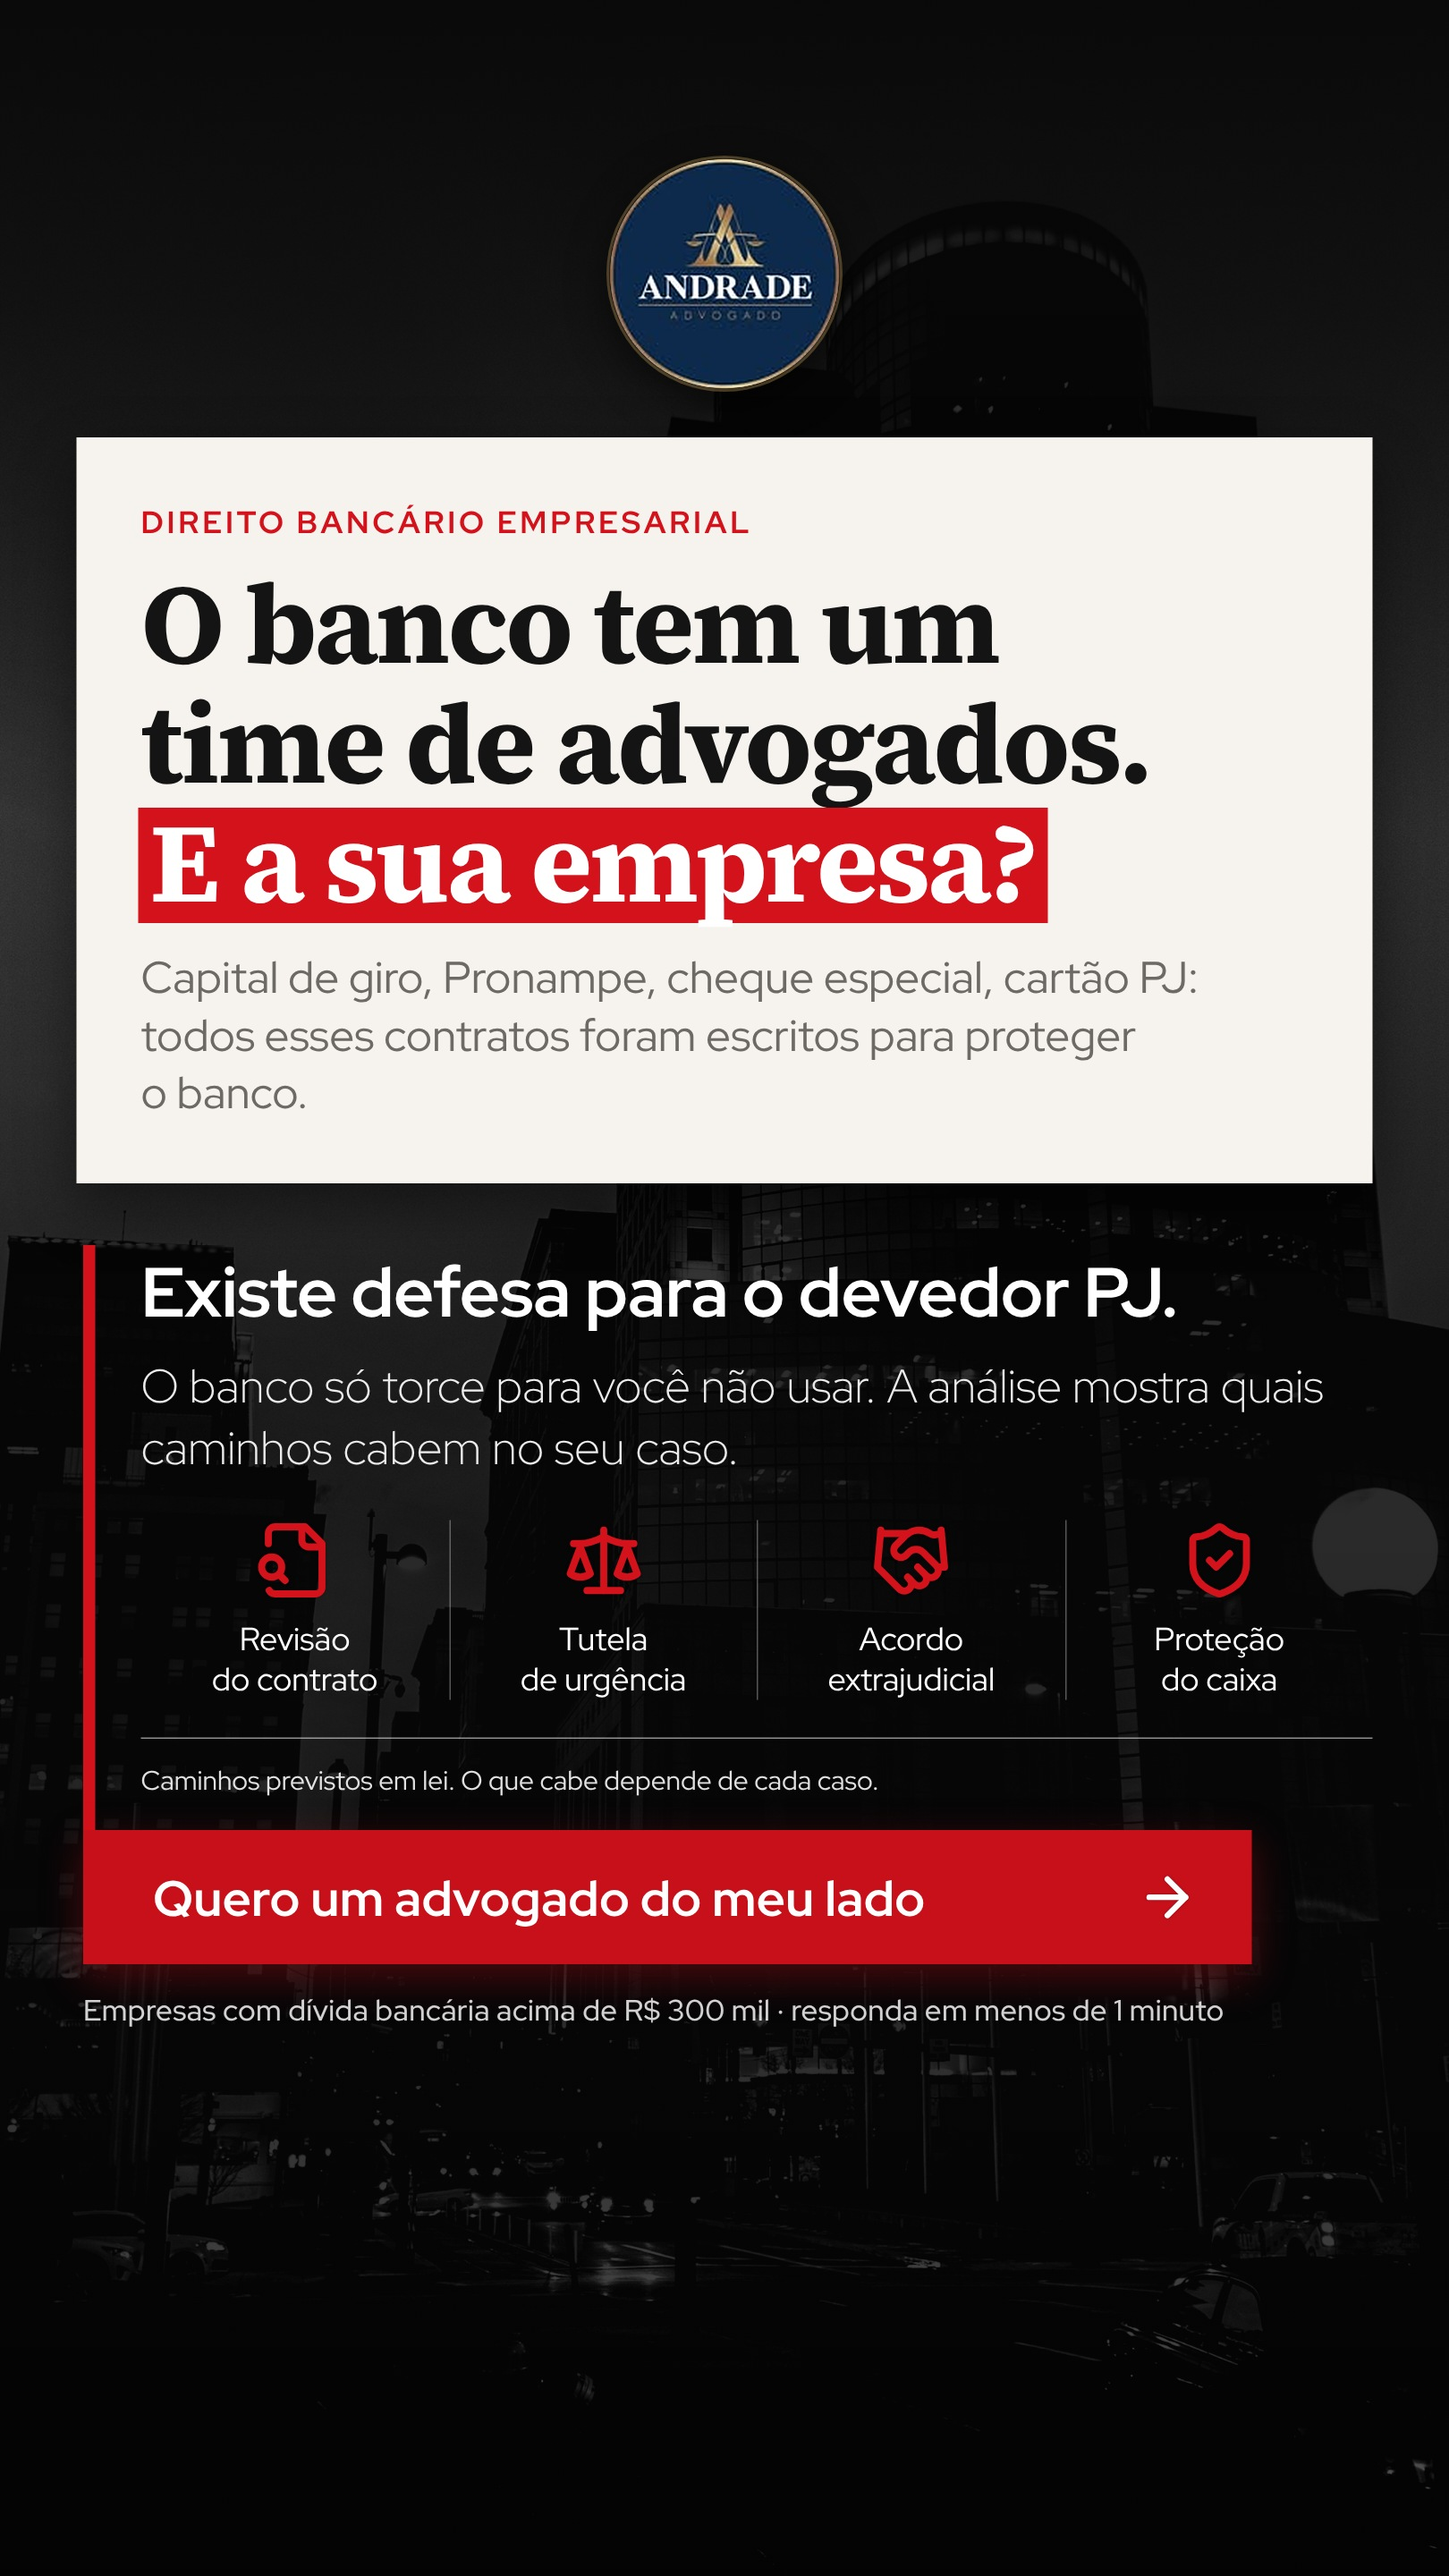
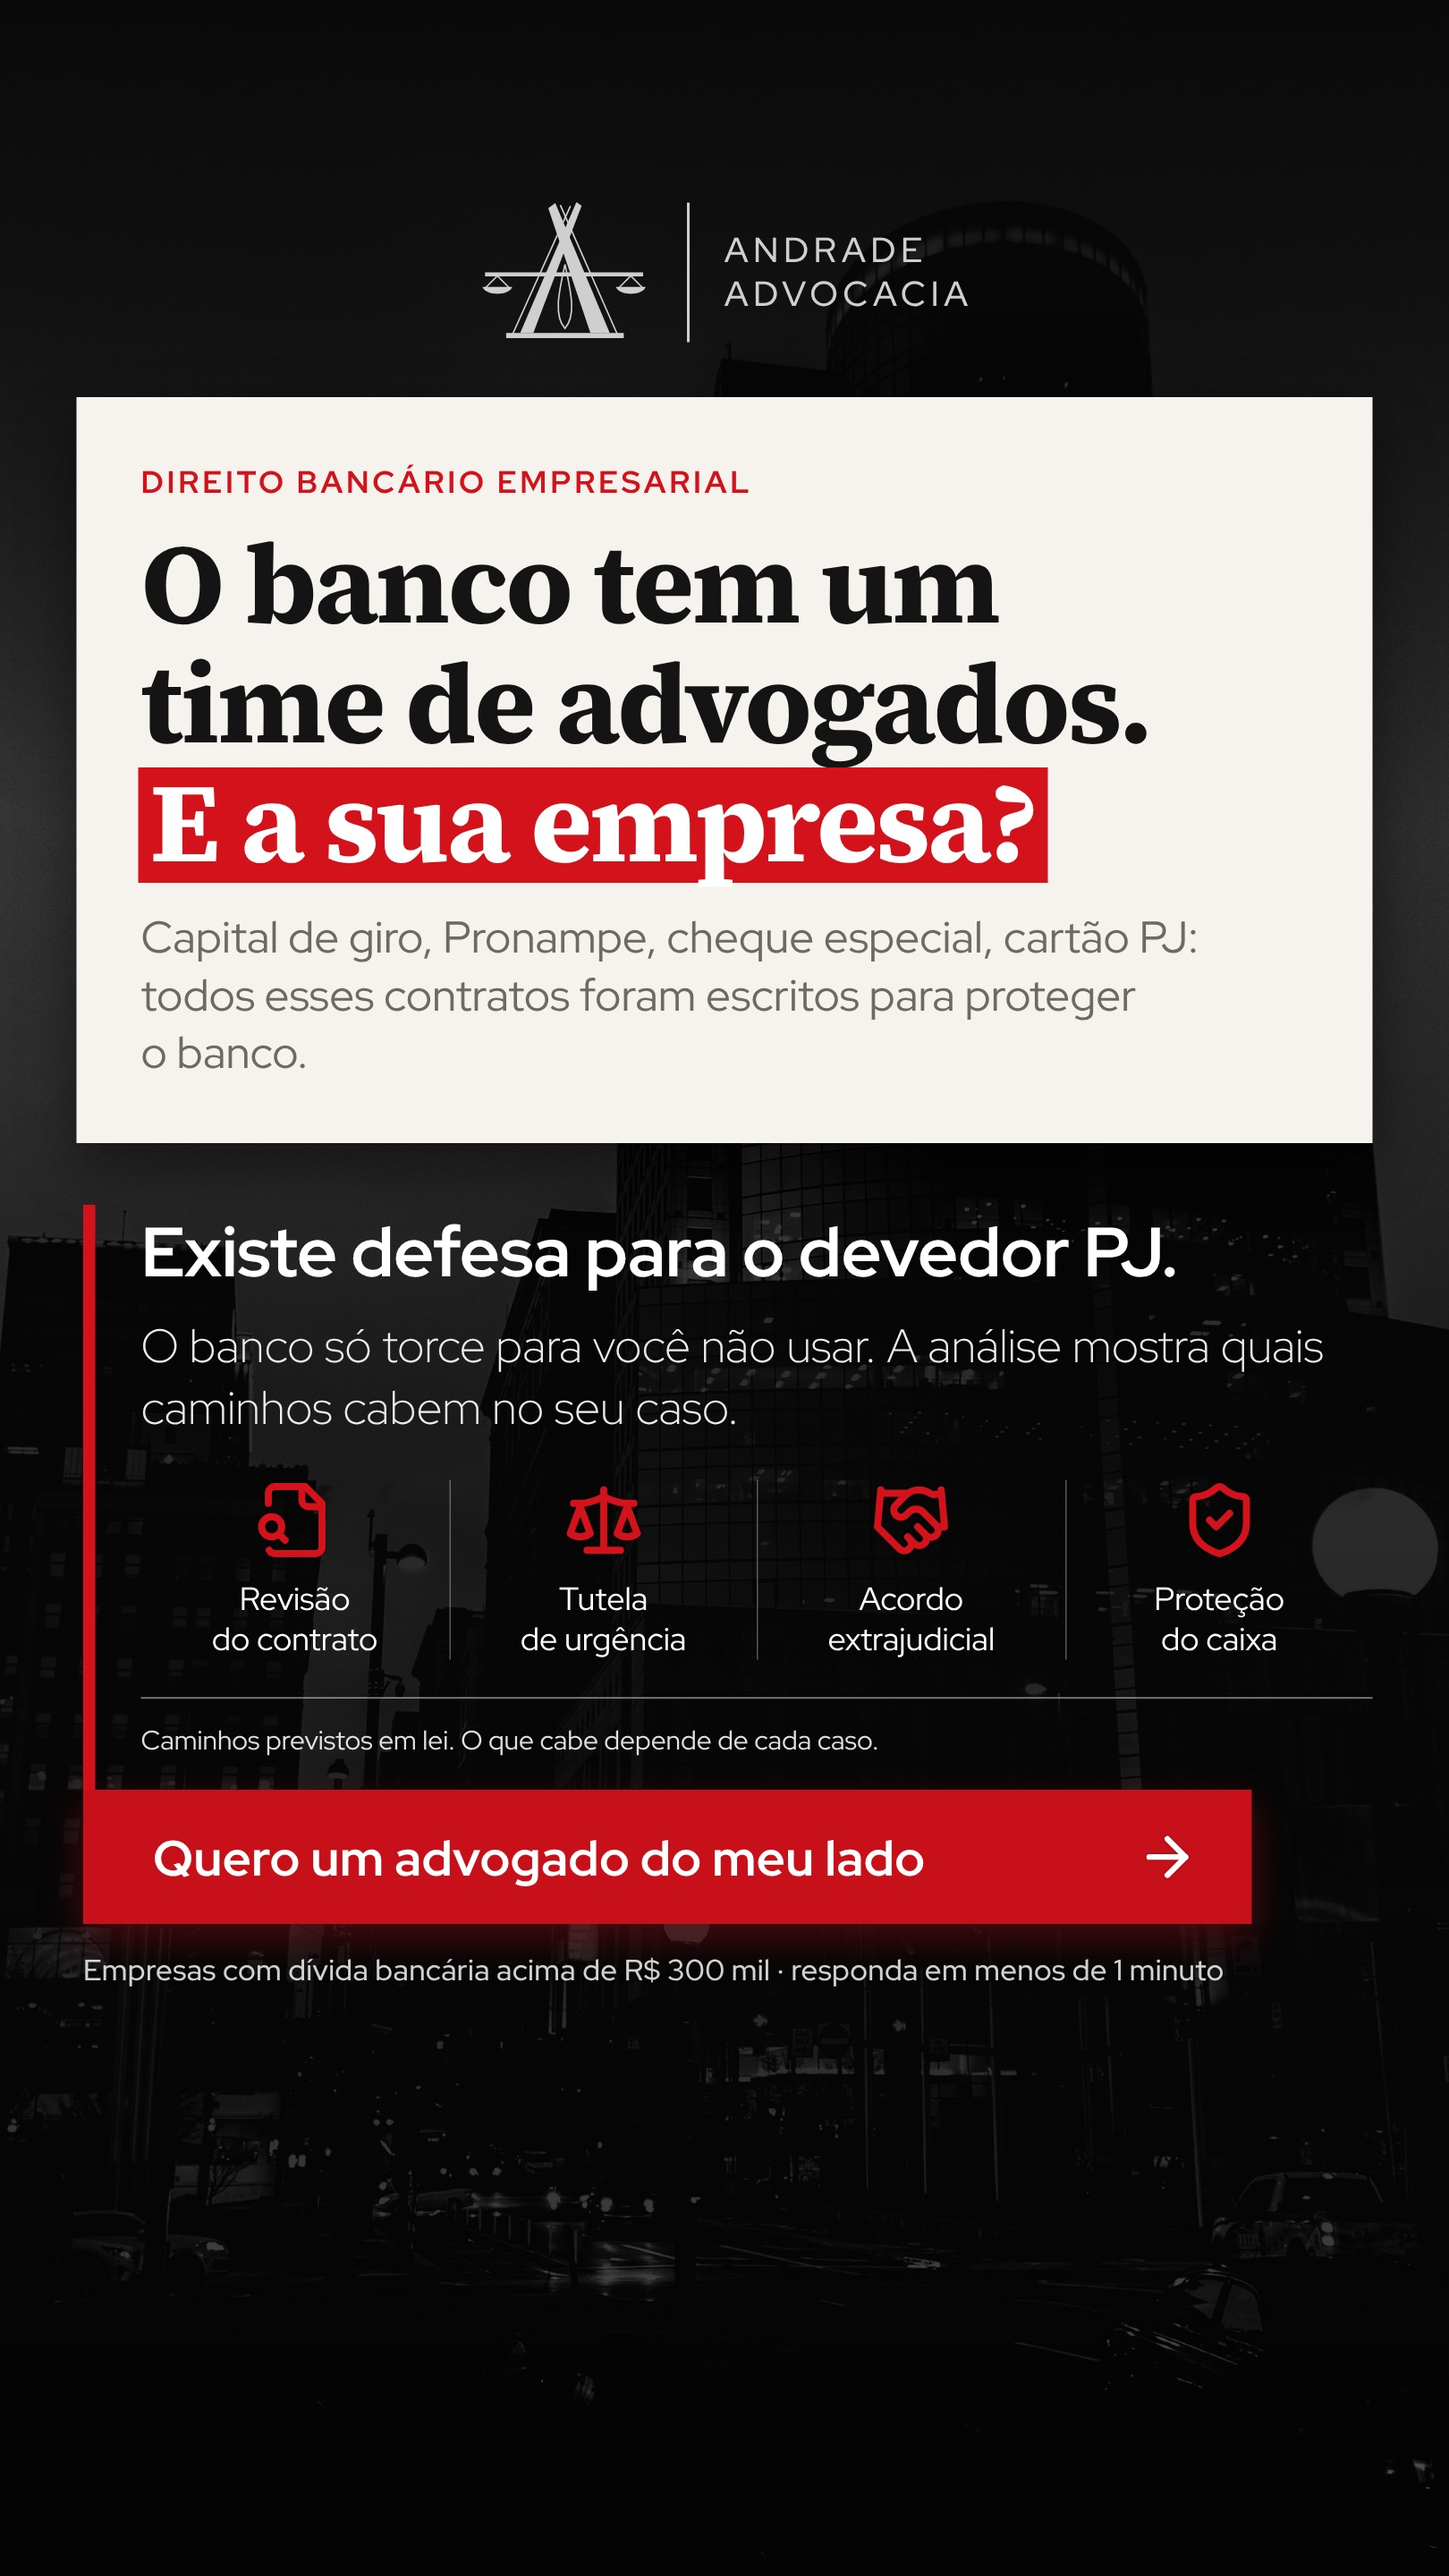
Troca o selo azul pelo emblema "A" em cinza ao lado do nome
Emblema redesenhado em vetor a partir da logo oficial (sem círculo e sem
texto), em cinza, no lugar do "GA" do lockup "ANDRADE / ADVOCACIA".

Claude-Session: https://claude.ai/code/session_01C88VYRBEsi3HRAf1CsrLXo

Changed region(s): [[0.0309, 0.0625, 0.9568, 0.7812], [0.5864, 0.5625, 0.679, 0.6562]]

diff --git a/estaticos-guilherme-andrade/build.js b/estaticos-guilherme-andrade/build.js
@@ -56,6 +56,9 @@ function html(p, fmt) {
   .logo .mono{font-family:'Source Serif 4',serif;font-weight:700;font-size:var(--mono);letter-spacing:-.02em;line-height:1}
   .logo .bar{width:2px;height:calc(var(--mono) * 1.2);background:rgba(255,255,255,.85)}
   .logo .nome{font-weight:500;font-size:var(--nome);letter-spacing:.14em;line-height:1.28}
+  .logo.cinza{color:var(--marca)}
+  .logo.cinza .bar{background:var(--marca)}
+  .logo .emb svg{display:block;height:var(--emb);width:auto}
   .logo .selo{width:var(--selo);height:var(--selo);border-radius:50%;display:block;
               box-shadow:0 0 0 2px rgba(201,162,92,.35),0 10px 30px rgba(0,0,0,.6)}
 
@@ -91,20 +94,23 @@ function html(p, fmt) {
   .f4x5 .card{margin-top:auto}
   .f4x5 .wrap{padding-bottom:var(--bottom-pad)}
   .f4x5 .micro{margin-bottom:auto}
-  .f4x5{--bottom-pad:6px;--logo-top:26px;--selo:150px;--mono:74px;--nome:22px;--card-top:24px;--card-pad:40px 44px 38px;--kicker:21px;--kicker-gap:14px;
+  .f4x5{--bottom-pad:6px;--logo-top:34px;--selo:150px;--emb:92px;--mono:74px;--nome:22px;--card-top:28px;--card-pad:40px 44px 38px;--kicker:21px;--kicker-gap:14px;
         --h1:78px;--sub-gap:16px;--sub:30px;--dark-top:34px;--h2:46px;--texto-gap:14px;--texto:31px;--icons-gap:26px;
         --ic:54px;--lbl:22px;--rule-gap:24px;--rodape:18px;--cta-gap:22px;--cta-h:90px;--cta:34px;--cta-cut:110px;--micro-gap:16px;--micro:20px}
   /* 9:16 — stories/reels (topo ~250px e base ~340px livres de informação essencial) */
-  .f9x16{--logo-top:118px;--selo:172px;--mono:86px;--nome:26px;--card-top:36px;--card-pad:48px 48px 46px;--kicker:23px;--kicker-gap:16px;
+  .f9x16{--logo-top:150px;--selo:172px;--emb:106px;--mono:86px;--nome:26px;--card-top:40px;--card-pad:48px 48px 46px;--kicker:23px;--kicker-gap:16px;
          --h1:84px;--sub-gap:20px;--sub:33px;--dark-top:46px;--h2:52px;--texto-gap:18px;--texto:35px;--icons-gap:32px;
          --ic:60px;--lbl:24px;--rule-gap:28px;--rodape:20px;--cta-gap:24px;--cta-h:100px;--cta:37px;--cta-cut:90px;--micro-gap:20px;--micro:22px}
 </style></head><body>
 <div class="ad f${fmt}">
   <div class="bg"></div><div class="shade"></div>
   <div class="wrap">
-    <header class="logo">${marca.logo
-      ? `<img class="selo" src="../marca/${marca.logo}" alt="">`
-      : `<span class="mono">${marca.monograma}</span><span class="bar"></span><span class="nome">${marca.linha1}<br>${marca.linha2}</span>`}</header>
+    <header class="logo${marca.cor ? ' cinza' : ''}" style="--marca:${marca.cor || '#fff'}">${
+      marca.emblema
+        ? `<span class="emb">${fs.readFileSync(path.join(ROOT, 'marca', marca.emblema), 'utf8')}</span><span class="bar"></span><span class="nome">${marca.linha1}<br>${marca.linha2}</span>`
+        : marca.logo
+          ? `<img class="selo" src="../marca/${marca.logo}" alt="">`
+          : `<span class="mono">${marca.monograma}</span><span class="bar"></span><span class="nome">${marca.linha1}<br>${marca.linha2}</span>`}</header>
     <section class="card">
       <div class="kicker">${p.kicker}</div>
       <h1>${manchete(p.manchete)}</h1>

diff --git a/estaticos-guilherme-andrade/pecas.js b/estaticos-guilherme-andrade/pecas.js
@@ -6,7 +6,10 @@
 const REGUA = 'R$ 300 mil';
 
 const marca = {
-  logo: 'logo-andrade.png', // selo oficial; sem ele, cai no lockup tipográfico abaixo
+  // Emblema "A" da logo oficial (sem o círculo azul e sem o texto), em cinza, ao lado do nome.
+  // Para usar o selo redondo inteiro, troque por: logo: 'logo-andrade.png'
+  emblema: 'emblema-andrade.svg',
+  cor: '#cfcfcf', // mesmo tom de cinza para emblema, barra e nome
   monograma: 'GA',
   linha1: 'ANDRADE',
   linha2: 'ADVOCACIA',

diff --git a/estaticos-guilherme-andrade/README.md b/estaticos-guilherme-andrade/README.md
@@ -24,7 +24,9 @@ Essa linha pré-qualifica o lead e reduz o atrito para preencher o formulário.
 
 - **Régua de R$ 300 mil:** é a dos estáticos que estão rodando hoje na campanha `[MF] 11/07 ESTATICOS`. Os vídeos de setembro usam R$ 100 mil. Para trocar em todas as peças, altere `REGUA` em `pecas.js` e rode o build de novo.
 - **"Menos de 1 minuto":** vale se o formulário continuar curto (faixa de dívida, situação e tipo, com os contatos já preenchidos pelo Meta).
-- **Logo:** é o selo oficial (`marca/logo-andrade.png`), ampliado a partir de um arquivo de 150×150 px. Se houver uma versão maior (PNG ou SVG), substitua o arquivo e rode o build para ganhar nitidez.
+- **Logo:** emblema "A" da logo oficial, sem o círculo azul e sem o texto, em cinza (`#cfcfcf`), ao lado de "ANDRADE / ADVOCACIA" no mesmo tom.
+  O emblema (`marca/emblema-andrade.svg`) foi redesenhado em vetor a partir do selo, porque o arquivo original tem só 150×150 px.
+  Se houver o vetor oficial, substitua o SVG. A cor fica em `marca.cor` (`pecas.js`).
 
 ## Como gerar de novo
 
